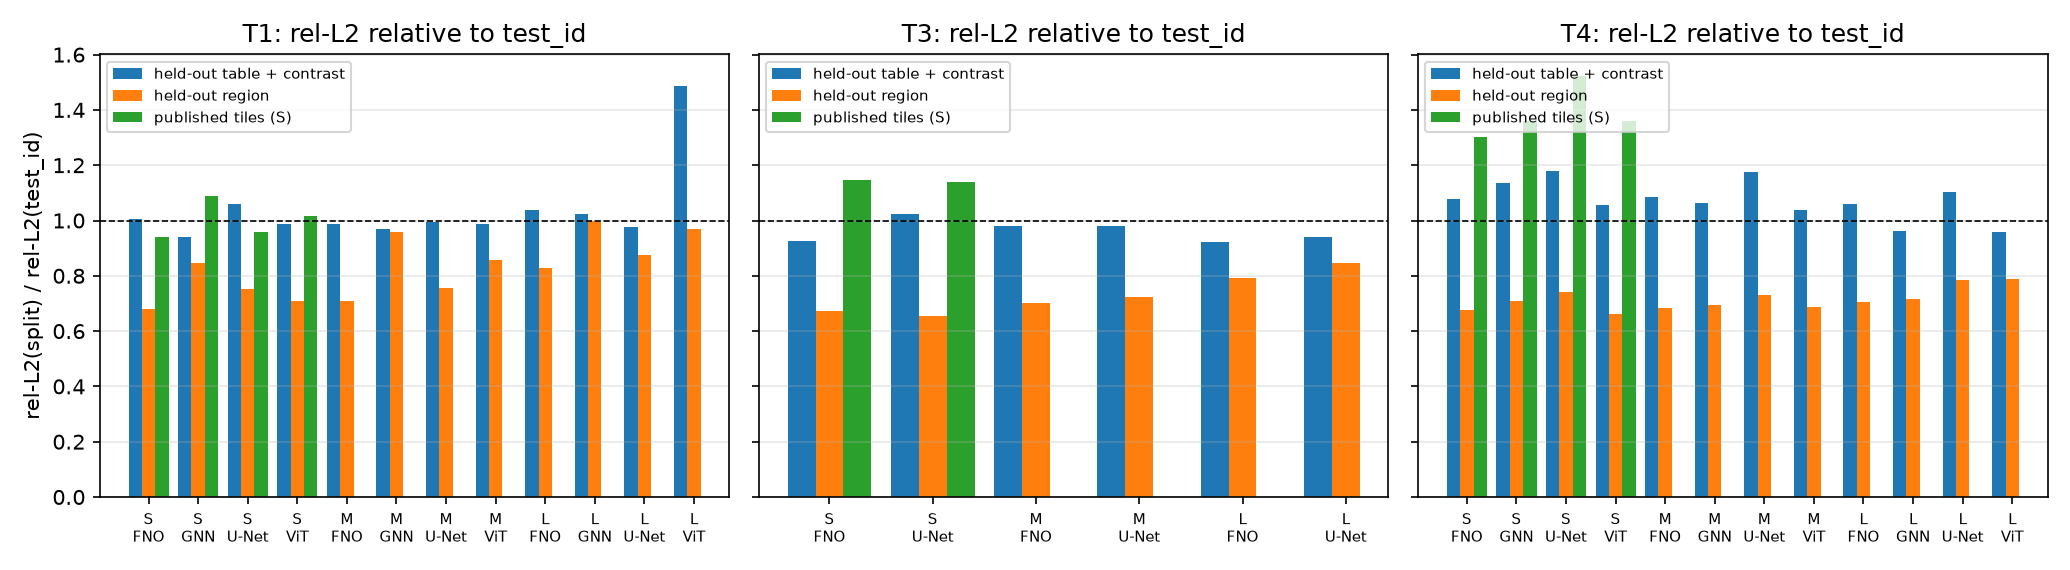
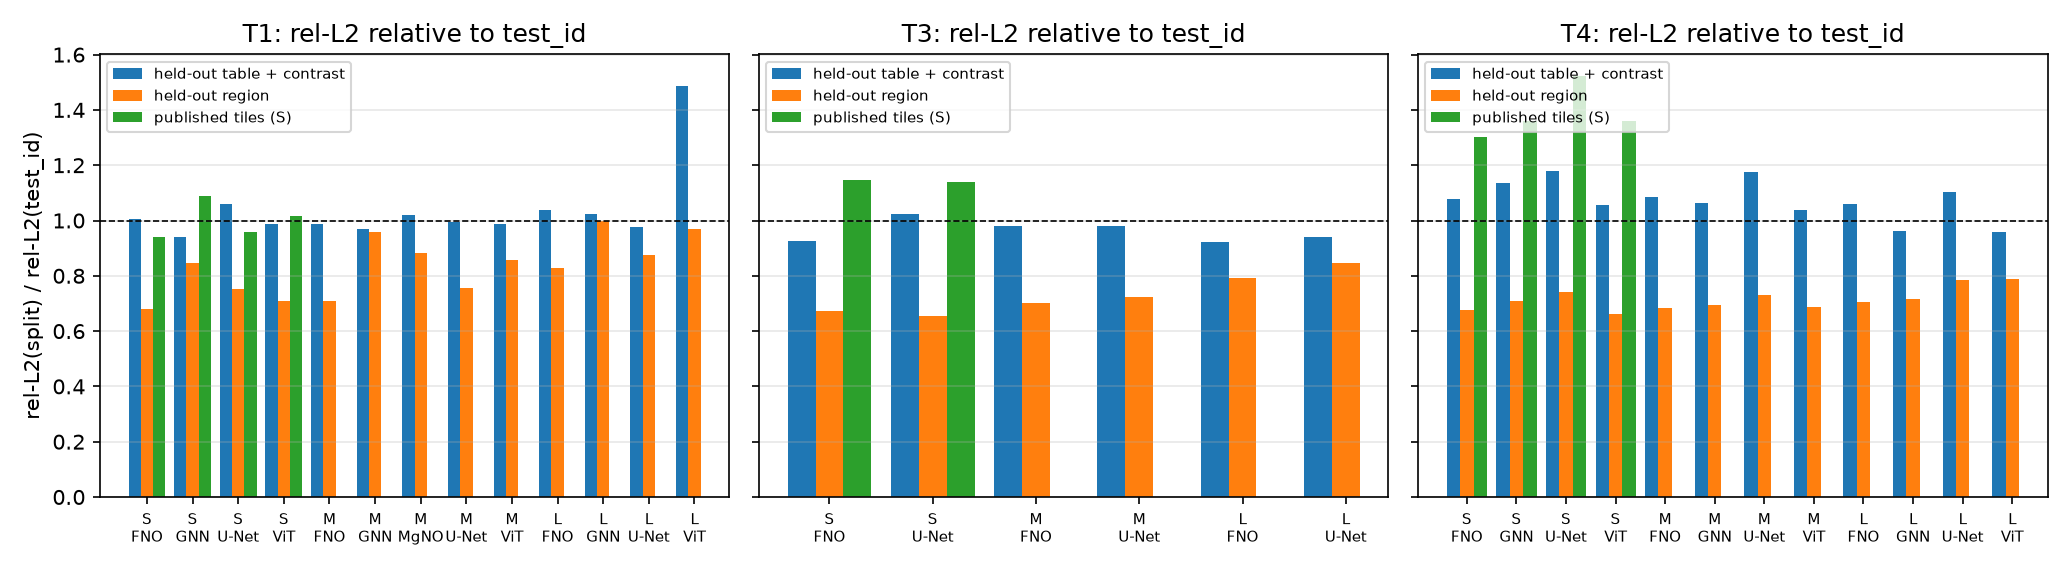
Tables: scale-transfer panel keeps the scale-aware variants; leaderboard seeder groups tier-tuned (_t2) runs per seed

Changed region(s): [[0.0618, 0.3579, 0.3401, 0.9544]]

diff --git a/scripts/submit_results.py b/scripts/submit_results.py
@@ -809,6 +809,12 @@ def seed_baselines(
         if not d.is_dir():
             continue
         p = parse_run_name(d.name)
+        tuned = False
+        if p is None and d.name.endswith(
+            "_t2"
+        ):  # tier-tuned official configuration (item 2, 2026-10-05)
+            p = parse_run_name(d.name[:-3])
+            tuned = p is not None
         if p is None:
             if re.match(r"^[a-z0-9]+_T\d[A-Z]?_(S|M|L|XL|XXL)_s\d+_", d.name):
                 warnings.append(f"skipped variant run {d.name}")
@@ -816,10 +822,14 @@ def seed_baselines(
         if not (d / "results.json").exists():
             warnings.append(f"skipped {d.name}: no results.json")
             continue
-        groups.setdefault((p["model"], p["task"], p["tier"]), []).append((p["seed"], d))
+        groups.setdefault((p["model"], p["task"], p["tier"]), []).append((p["seed"], d, tuned))
     entries: list[dict] = []
-    for (model, task, tier), seed_runs in sorted(groups.items()):
-        seed_runs.sort()
+    for (model, task, tier), seed_runs3 in sorted(groups.items()):
+        # one run per seed: the tier-tuned run replaces the pre-tuning one when both exist
+        by_seed: dict[int, tuple[int, pathlib.Path]] = {}
+        for sd, d, _tuned in sorted(seed_runs3, key=lambda x: (x[0], x[2])):
+            by_seed[sd] = (sd, d)
+        seed_runs = sorted(by_seed.values())
         name = MODEL_NAMES.get(model, model)
         results = [(s, d, json.loads((d / "results.json").read_text())) for s, d in seed_runs]
         cfgs = [r["config"] for _, _, r in results]

diff --git a/scripts/paper_figures.py b/scripts/paper_figures.py
@@ -234,17 +234,10 @@ def scale_transfer(out: pathlib.Path) -> None:
         base, task, tier, seed, suffix = split_run_name(run.name)
         if seed is None:
             continue
-        tuned = "_t2" in run.name
-        if (
-            not tuned
-            and (
-                run.parent
-                / (run.name.replace(f"_s{seed}", f"_s{seed}_t2") if suffix == "" else run.name)
-            )
-            .joinpath("results_transfer.json")
-            .exists()
-        ):
-            continue  # a tier-tuned counterpart exists: it is the official L model
+        if suffix == "" and "_t2" not in run.name:
+            t2 = run.parent / f"{base}_{task}_{tier}_s{seed}_t2"
+            if (t2 / "results_transfer.json").exists():
+                continue  # a tier-tuned counterpart exists: it is the official L model
         ev = json.loads(pathlib.Path(p).read_text())["eval"]
         for tag, v in ev.items():
             m = re.match(r"^[^_]+_(XL|XXL)_(test_id|test_ood|ood_region)$", tag)

diff --git a/docs/tables/baselines_full.md b/docs/tables/baselines_full.md
@@ -102,39 +102,60 @@
 | T1 | S | published S | vit_T1_S_s2 | 45 | 0.105 | 0.238 | 0.574 | 0.673 | 0.951 | 0.769 | 0.925 | 305.282 | 3.025 | 30 | 0.800 |
 | T1 | S | published S | vit_T1_S_s3 | 45 | 0.075 | 0.184 | 0.668 | 0.782 | 0.973 | 0.838 | 0.953 | 393.377 | 3.025 | 30 | 0.795 |
 | T1 | M | test_id | fno_T1_M_s1 | 4823 | 0.123 | 0.266 | 0.699 | 0.700 | 0.959 | 0.846 | 0.953 | 738.895 | 33.563 | 30 | 1.627 |
+| T1 | M | test_id | fno_T1_M_s1_tune_m96 | 4823 | 0.122 | 0.240 | 0.698 | 0.721 | 0.960 | 0.846 | 0.956 | 468.011 | 75.506 | 30 | 2.319 |
+| T1 | M | test_id | fno_T1_M_s1_tune_w48 | 4823 | 0.115 | 0.210 | 0.722 | 0.724 | 0.964 | 0.860 | 0.957 | 277.475 | 75.517 | 30 | 3.016 |
 | T1 | M | test_id | fno_T1_M_s2 | 4823 | 0.121 | 0.235 | 0.704 | 0.707 | 0.960 | 0.849 | 0.954 | 571.632 | 33.563 | 30 | 1.637 |
 | T1 | M | test_id | fno_T1_M_s3 | 4823 | 0.122 | 0.244 | 0.699 | 0.706 | 0.959 | 0.847 | 0.951 | 569.028 | 33.563 | 30 | 1.323 |
 | T1 | M | test_id | gnn_T1_M_s1 | 4823 | 0.336 | 0.844 | 0.500 | 0.541 | 0.860 | 0.694 | 0.892 | 52.043 | 0.245 | 30 | 9.203 |
 | T1 | M | test_id | gnn_T1_M_s2 | 4823 | 0.339 | 0.853 | 0.500 | 0.544 | 0.860 | 0.694 | 0.890 | 51.927 | 0.245 | 30 | 9.199 |
 | T1 | M | test_id | gnn_T1_M_s3 | 4823 | 0.337 | 0.851 | 0.500 | 0.536 | 0.860 | 0.694 | 0.891 | 52.559 | 0.245 | 30 | 9.204 |
+| T1 | M | test_id | mgno_T1_M_s1 | 4823 | 0.147 | 0.412 | 0.628 | 0.695 | 0.952 | 0.804 | 0.947 | 457.081 | 0.579 | 30 | 1.290 |
 | T1 | M | test_id | unet_T1_M_s1 | 4823 | 0.119 | 0.238 | 0.661 | 0.640 | 0.953 | 0.821 | 0.951 | 839.527 | 7.766 | 30 | 1.199 |
+| T1 | M | test_id | unet_T1_M_s1_tune_w64 | 4823 | 0.084 | 0.201 | 0.773 | 0.835 | 0.976 | 0.886 | 0.978 | 320.564 | 31.044 | 30 | 2.062 |
+| T1 | M | test_id | unet_T1_M_s1_tune_wide | 4823 | 0.094 | 0.204 | 0.740 | 0.759 | 0.969 | 0.867 | 0.969 | 471.488 | 17.466 | 30 | 1.442 |
 | T1 | M | test_id | unet_T1_M_s2 | 4823 | 0.094 | 0.198 | 0.728 | 0.753 | 0.969 | 0.863 | 0.968 | 645.288 | 7.766 | 30 | 1.403 |
 | T1 | M | test_id | unet_T1_M_s3 | 4823 | 0.096 | 0.199 | 0.735 | 0.772 | 0.969 | 0.866 | 0.968 | 833.616 | 7.766 | 30 | 1.358 |
 | T1 | M | test_id | vit_T1_M_s1 | 4823 | 0.342 | 0.533 | 0.168 | 0.608 | 0.659 | 0.362 | 0.914 | 466.147 | 3.025 | 30 | 1.538 |
+| T1 | M | test_id | vit_T1_M_s1_tune_p16g16 | 4823 | 0.138 | 0.312 | 0.518 | 0.677 | 0.939 | 0.756 | 0.937 | 1106.274 | 3.000 | 30 | 1.068 |
+| T1 | M | test_id | vit_T1_M_s1_tune_p8g32 | 4823 | 0.279 | 0.423 | 0.257 | 0.630 | 0.788 | 0.489 | 0.914 | 622.416 | 3.043 | 30 | 1.528 |
 | T1 | M | test_id | vit_T1_M_s2 | 4823 | 0.232 | 0.435 | 0.275 | 0.690 | 0.853 | 0.541 | 0.922 | 456.900 | 3.025 | 30 | 1.538 |
 | T1 | M | test_id | vit_T1_M_s3 | 4823 | 0.145 | 0.289 | 0.492 | 0.663 | 0.933 | 0.739 | 0.948 | 466.258 | 3.025 | 30 | 1.523 |
 | T1 | M | test_ood | fno_T1_M_s1 | 3225 | 0.108 | 0.263 | 0.714 | 0.671 | 0.966 | 0.853 | 0.944 | 757.093 | 33.563 | 30 | 1.627 |
+| T1 | M | test_ood | fno_T1_M_s1_tune_m96 | 3225 | 0.108 | 0.235 | 0.714 | 0.710 | 0.967 | 0.853 | 0.949 | 484.953 | 75.506 | 30 | 2.319 |
+| T1 | M | test_ood | fno_T1_M_s1_tune_w48 | 3225 | 0.103 | 0.205 | 0.736 | 0.706 | 0.970 | 0.866 | 0.949 | 286.748 | 75.517 | 30 | 3.016 |
 | T1 | M | test_ood | fno_T1_M_s2 | 3225 | 0.107 | 0.235 | 0.716 | 0.685 | 0.966 | 0.854 | 0.945 | 591.970 | 33.563 | 30 | 1.637 |
 | T1 | M | test_ood | fno_T1_M_s3 | 3225 | 0.107 | 0.238 | 0.714 | 0.685 | 0.966 | 0.854 | 0.942 | 590.294 | 33.563 | 30 | 1.323 |
 | T1 | M | test_ood | gnn_T1_M_s1 | 3225 | 0.317 | 0.820 | 0.490 | 0.494 | 0.866 | 0.683 | 0.884 | 52.305 | 0.245 | 30 | 9.203 |
 | T1 | M | test_ood | gnn_T1_M_s2 | 3225 | 0.319 | 0.826 | 0.492 | 0.497 | 0.865 | 0.683 | 0.882 | 52.205 | 0.245 | 30 | 9.199 |
 | T1 | M | test_ood | gnn_T1_M_s3 | 3225 | 0.317 | 0.824 | 0.494 | 0.495 | 0.866 | 0.684 | 0.883 | 52.764 | 0.245 | 30 | 9.204 |
+| T1 | M | test_ood | mgno_T1_M_s1 | 3225 | 0.133 | 0.420 | 0.640 | 0.635 | 0.956 | 0.807 | 0.938 | 488.747 | 0.579 | 30 | 1.290 |
 | T1 | M | test_ood | unet_T1_M_s1 | 3225 | 0.110 | 0.230 | 0.668 | 0.604 | 0.955 | 0.823 | 0.940 | 857.060 | 7.766 | 30 | 1.199 |
+| T1 | M | test_ood | unet_T1_M_s1_tune_w64 | 3225 | 0.074 | 0.200 | 0.790 | 0.843 | 0.979 | 0.893 | 0.975 | 331.977 | 31.044 | 30 | 2.062 |
+| T1 | M | test_ood | unet_T1_M_s1_tune_wide | 3225 | 0.086 | 0.204 | 0.749 | 0.747 | 0.972 | 0.870 | 0.962 | 486.651 | 17.466 | 30 | 1.442 |
 | T1 | M | test_ood | unet_T1_M_s2 | 3225 | 0.087 | 0.203 | 0.740 | 0.748 | 0.972 | 0.866 | 0.961 | 665.840 | 7.766 | 30 | 1.403 |
 | T1 | M | test_ood | unet_T1_M_s3 | 3225 | 0.087 | 0.198 | 0.745 | 0.771 | 0.972 | 0.870 | 0.962 | 861.859 | 7.766 | 30 | 1.358 |
 | T1 | M | test_ood | vit_T1_M_s1 | 3225 | 0.306 | 0.540 | 0.156 | 0.612 | 0.632 | 0.324 | 0.905 | 482.401 | 3.025 | 30 | 1.538 |
+| T1 | M | test_ood | vit_T1_M_s1_tune_p16g16 | 3225 | 0.124 | 0.302 | 0.528 | 0.666 | 0.946 | 0.762 | 0.927 | 1129.806 | 3.000 | 30 | 1.068 |
+| T1 | M | test_ood | vit_T1_M_s1_tune_p8g32 | 3225 | 0.249 | 0.413 | 0.238 | 0.608 | 0.780 | 0.452 | 0.905 | 643.840 | 3.043 | 30 | 1.528 |
 | T1 | M | test_ood | vit_T1_M_s2 | 3225 | 0.201 | 0.422 | 0.265 | 0.680 | 0.858 | 0.519 | 0.914 | 482.909 | 3.025 | 30 | 1.538 |
 | T1 | M | test_ood | vit_T1_M_s3 | 3225 | 0.126 | 0.278 | 0.496 | 0.660 | 0.943 | 0.743 | 0.938 | 482.031 | 3.025 | 30 | 1.523 |
 | T1 | M | ood_region | fno_T1_M_s1 | 4805 | 0.055 | 0.187 | 0.785 | 0.725 | 0.984 | 0.895 | 0.976 | 748.966 | 33.563 | 30 | 1.627 |
+| T1 | M | ood_region | fno_T1_M_s1_tune_m96 | 4805 | 0.055 | 0.168 | 0.782 | 0.749 | 0.984 | 0.893 | 0.978 | 476.890 | 75.506 | 30 | 2.319 |
+| T1 | M | ood_region | fno_T1_M_s1_tune_w48 | 4805 | 0.051 | 0.140 | 0.804 | 0.747 | 0.986 | 0.905 | 0.979 | 282.490 | 75.517 | 30 | 3.016 |
 | T1 | M | ood_region | fno_T1_M_s2 | 4805 | 0.055 | 0.165 | 0.787 | 0.732 | 0.984 | 0.896 | 0.976 | 581.059 | 33.563 | 30 | 1.637 |
 | T1 | M | ood_region | fno_T1_M_s3 | 4805 | 0.054 | 0.175 | 0.785 | 0.732 | 0.984 | 0.895 | 0.975 | 581.090 | 33.563 | 30 | 1.323 |
 | T1 | M | ood_region | gnn_T1_M_s1 | 4805 | 0.268 | 0.805 | 0.550 | 0.592 | 0.888 | 0.725 | 0.914 | 51.358 | 0.245 | 30 | 9.203 |
 | T1 | M | ood_region | gnn_T1_M_s2 | 4805 | 0.270 | 0.824 | 0.551 | 0.592 | 0.889 | 0.726 | 0.912 | 51.178 | 0.245 | 30 | 9.199 |
 | T1 | M | ood_region | gnn_T1_M_s3 | 4805 | 0.268 | 0.814 | 0.551 | 0.588 | 0.889 | 0.726 | 0.913 | 51.773 | 0.245 | 30 | 9.204 |
+| T1 | M | ood_region | mgno_T1_M_s1 | 4805 | 0.087 | 0.364 | 0.693 | 0.701 | 0.970 | 0.841 | 0.962 | 487.410 | 0.579 | 30 | 1.290 |
 | T1 | M | ood_region | unet_T1_M_s1 | 4805 | 0.069 | 0.176 | 0.738 | 0.661 | 0.970 | 0.862 | 0.966 | 837.191 | 7.766 | 30 | 1.199 |
+| T1 | M | ood_region | unet_T1_M_s1_tune_w64 | 4805 | 0.048 | 0.167 | 0.833 | 0.869 | 0.986 | 0.915 | 0.988 | 327.255 | 31.044 | 30 | 2.062 |
+| T1 | M | ood_region | unet_T1_M_s1_tune_wide | 4805 | 0.055 | 0.157 | 0.803 | 0.784 | 0.981 | 0.899 | 0.980 | 479.236 | 17.466 | 30 | 1.442 |
 | T1 | M | ood_region | unet_T1_M_s2 | 4805 | 0.055 | 0.151 | 0.795 | 0.780 | 0.981 | 0.896 | 0.980 | 654.427 | 7.766 | 30 | 1.403 |
 | T1 | M | ood_region | unet_T1_M_s3 | 4805 | 0.056 | 0.153 | 0.796 | 0.800 | 0.981 | 0.896 | 0.980 | 848.504 | 7.766 | 30 | 1.358 |
 | T1 | M | ood_region | vit_T1_M_s1 | 4805 | 0.259 | 0.483 | 0.143 | 0.617 | 0.622 | 0.301 | 0.936 | 477.128 | 3.025 | 30 | 1.538 |
+| T1 | M | ood_region | vit_T1_M_s1_tune_p16g16 | 4805 | 0.071 | 0.246 | 0.583 | 0.708 | 0.969 | 0.809 | 0.958 | 1135.335 | 3.000 | 30 | 1.068 |
+| T1 | M | ood_region | vit_T1_M_s1_tune_p8g32 | 4805 | 0.192 | 0.363 | 0.248 | 0.653 | 0.800 | 0.466 | 0.937 | 634.736 | 3.043 | 30 | 1.528 |
 | T1 | M | ood_region | vit_T1_M_s2 | 4805 | 0.147 | 0.376 | 0.268 | 0.725 | 0.880 | 0.532 | 0.944 | 475.790 | 3.025 | 30 | 1.538 |
 | T1 | M | ood_region | vit_T1_M_s3 | 4805 | 0.075 | 0.220 | 0.550 | 0.692 | 0.965 | 0.788 | 0.966 | 475.076 | 3.025 | 30 | 1.523 |
 | T1 | L | test_id | fno_T1_L_s1 | 1928 | 0.147 | 0.364 | 0.643 | 0.508 | 0.945 | 0.812 | 0.934 | 506.188 | 33.563 | 30 | 2.696 |
@@ -269,49 +290,69 @@
 | T1 | XXL | ood_region | unet_T1_L_s1_scalenorm → XXL | 100 | 2.158 | 1.001 | 0.235 | 0.183 | 0.607 | 0.406 | 0.545 | 260.440 | 7.766 | 30 | 1.491 |
 | T1 | XXL | ood_region | unet_T1_L_s2 → XXL | 100 | 2.419 | 0.969 | 0.241 | 0.191 | 0.243 | 0.373 | 0.483 | 261.002 | 7.766 | 30 | 1.486 |
 | T1 | XXL | ood_region | unet_T1_L_s3 → XXL | 100 | 2.428 | 19.584 | 0.250 | 0.129 | 0.364 | 0.397 | 0.521 | 261.136 | 7.766 | 30 | 1.502 |
+| T1V | M | test_id | fno_T1V_M_s1_voltage | 4823 | – | – | – | – | – | – | – | – | 33.563 | 30 | 1.673 |
+| T1V | M | test_id | unet_T1V_M_s1_voltage | 4823 | – | – | – | – | – | – | – | – | 7.766 | 30 | 1.278 |
+| T1V | M | test_ood | fno_T1V_M_s1_voltage | 3225 | – | – | – | – | – | – | – | – | 33.563 | 30 | 1.673 |
+| T1V | M | test_ood | unet_T1V_M_s1_voltage | 3225 | – | – | – | – | – | – | – | – | 7.766 | 30 | 1.278 |
+| T1V | M | ood_region | fno_T1V_M_s1_voltage | 4805 | – | – | – | – | – | – | – | – | 33.563 | 30 | 1.673 |
+| T1V | M | ood_region | unet_T1V_M_s1_voltage | 4805 | – | – | – | – | – | – | – | – | 7.766 | 30 | 1.278 |
 | T3 | S | test_id | coarsen4 (non-learned) | 351 | 0.134 | 0.295 | 0.622 | 0.348 | 0.927 | 0.796 | 0.814 | 2.224 | – | – | – |
 | T3 | S | test_id | fno_T3_S_s1 | 9850 | 0.145 | 0.254 | 0.639 | 0.704 | 0.932 | 0.806 | 0.923 | 221.474 | 33.563 | 26 | 0.872 |
+| T3 | S | test_id | fno_T3_S_s1_voltage | 9850 | – | – | – | – | – | – | – | 221.693 | 33.563 | 30 | 1.000 |
 | T3 | S | test_id | fno_T3_S_s2 | 9850 | 0.149 | 0.252 | 0.639 | 0.693 | 0.928 | 0.803 | 0.921 | 216.932 | 33.563 | 28 | 0.932 |
 | T3 | S | test_id | fno_T3_S_s3 | 9850 | 0.147 | 0.252 | 0.638 | 0.689 | 0.929 | 0.804 | 0.918 | 218.199 | 33.563 | 29 | 0.964 |
 | T3 | S | test_id | unet_T3_S_s1 | 9850 | 0.052 | 0.116 | 0.827 | 0.886 | 0.989 | 0.924 | 0.982 | 316.015 | 7.766 | 30 | 0.736 |
+| T3 | S | test_id | unet_T3_S_s1_voltage | 9850 | – | – | – | – | – | – | – | 320.601 | 7.766 | 30 | 0.706 |
 | T3 | S | test_id | unet_T3_S_s2 | 9850 | 0.052 | 0.110 | 0.826 | 0.895 | 0.989 | 0.924 | 0.981 | 321.297 | 7.766 | 30 | 0.725 |
 | T3 | S | test_id | unet_T3_S_s3 | 9850 | 0.051 | 0.107 | 0.826 | 0.889 | 0.989 | 0.923 | 0.981 | 320.938 | 7.766 | 30 | 0.694 |
 | T3 | S | test_ood | coarsen4 (non-learned) | 184 | 0.124 | 0.320 | 0.561 | 0.269 | 0.927 | 0.763 | 0.755 | 2.402 | – | – | – |
 | T3 | S | test_ood | fno_T3_S_s1 | 6460 | 0.132 | 0.234 | 0.635 | 0.689 | 0.943 | 0.815 | 0.924 | 215.399 | 33.563 | 26 | 0.872 |
+| T3 | S | test_ood | fno_T3_S_s1_voltage | 6460 | – | – | – | – | – | – | – | 223.044 | 33.563 | 30 | 1.000 |
 | T3 | S | test_ood | fno_T3_S_s2 | 6460 | 0.135 | 0.235 | 0.631 | 0.691 | 0.939 | 0.813 | 0.922 | 217.198 | 33.563 | 28 | 0.932 |
 | T3 | S | test_ood | fno_T3_S_s3 | 6460 | 0.134 | 0.234 | 0.630 | 0.668 | 0.940 | 0.812 | 0.918 | 221.164 | 33.563 | 29 | 0.964 |
 | T3 | S | test_ood | unet_T3_S_s1 | 6460 | 0.049 | 0.115 | 0.802 | 0.882 | 0.990 | 0.922 | 0.980 | 310.043 | 7.766 | 30 | 0.736 |
+| T3 | S | test_ood | unet_T3_S_s1_voltage | 6460 | – | – | – | – | – | – | – | 321.145 | 7.766 | 30 | 0.706 |
 | T3 | S | test_ood | unet_T3_S_s2 | 6460 | 0.049 | 0.112 | 0.810 | 0.899 | 0.989 | 0.922 | 0.980 | 314.640 | 7.766 | 30 | 0.725 |
 | T3 | S | test_ood | unet_T3_S_s3 | 6460 | 0.048 | 0.114 | 0.808 | 0.886 | 0.989 | 0.920 | 0.979 | 314.074 | 7.766 | 30 | 0.694 |
 | T3 | S | ood_region | coarsen4 (non-learned) | 300 | 0.081 | 0.246 | 0.678 | 0.381 | 0.958 | 0.841 | 0.855 | 2.296 | – | – | – |
 | T3 | S | ood_region | fno_T3_S_s1 | 9470 | 0.086 | 0.169 | 0.696 | 0.728 | 0.956 | 0.846 | 0.938 | 217.581 | 33.563 | 26 | 0.872 |
+| T3 | S | ood_region | fno_T3_S_s1_voltage | 9470 | – | – | – | – | – | – | – | 225.061 | 33.563 | 30 | 1.000 |
 | T3 | S | ood_region | fno_T3_S_s2 | 9470 | 0.089 | 0.171 | 0.696 | 0.726 | 0.952 | 0.845 | 0.935 | 219.610 | 33.563 | 28 | 0.932 |
 | T3 | S | ood_region | fno_T3_S_s3 | 9470 | 0.088 | 0.171 | 0.694 | 0.718 | 0.953 | 0.844 | 0.933 | 221.334 | 33.563 | 29 | 0.964 |
 | T3 | S | ood_region | unet_T3_S_s1 | 9470 | 0.027 | 0.073 | 0.848 | 0.915 | 0.995 | 0.936 | 0.987 | 310.943 | 7.766 | 30 | 0.736 |
+| T3 | S | ood_region | unet_T3_S_s1_voltage | 9470 | – | – | – | – | – | – | – | 322.141 | 7.766 | 30 | 0.706 |
 | T3 | S | ood_region | unet_T3_S_s2 | 9470 | 0.028 | 0.073 | 0.850 | 0.923 | 0.995 | 0.937 | 0.986 | 313.429 | 7.766 | 30 | 0.725 |
 | T3 | S | ood_region | unet_T3_S_s3 | 9470 | 0.027 | 0.072 | 0.845 | 0.919 | 0.995 | 0.933 | 0.985 | 321.806 | 7.766 | 30 | 0.694 |
 | T3 | S | published S | fno_T3_S_s1 | 45 | 0.131 | 0.285 | 0.620 | 0.678 | 0.930 | 0.794 | 0.915 | 157.499 | 33.563 | 26 | 0.872 |
+| T3 | S | published S | fno_T3_S_s1_voltage | 45 | – | – | – | – | – | – | – | 100.525 | 33.563 | 30 | 1.000 |
 | T3 | S | published S | fno_T3_S_s2 | 45 | 0.132 | 0.283 | 0.608 | 0.656 | 0.929 | 0.786 | 0.909 | 140.986 | 33.563 | 28 | 0.932 |
 | T3 | S | published S | fno_T3_S_s3 | 45 | 0.134 | 0.300 | 0.607 | 0.631 | 0.927 | 0.785 | 0.905 | 165.345 | 33.563 | 29 | 0.964 |
 | T3 | S | published S | unet_T3_S_s1 | 45 | 0.042 | 0.129 | 0.827 | 0.863 | 0.993 | 0.929 | 0.982 | 84.217 | 7.766 | 30 | 0.736 |
+| T3 | S | published S | unet_T3_S_s1_voltage | 45 | – | – | – | – | – | – | – | 163.077 | 7.766 | 30 | 0.706 |
 | T3 | S | published S | unet_T3_S_s2 | 45 | 0.042 | 0.128 | 0.828 | 0.897 | 0.992 | 0.930 | 0.982 | 15.501 | 7.766 | 30 | 0.725 |
 | T3 | S | published S | unet_T3_S_s3 | 45 | 0.041 | 0.122 | 0.836 | 0.890 | 0.993 | 0.926 | 0.982 | 6.790 | 7.766 | 30 | 0.694 |
 | T3 | M | test_id | fno_T3_M_s1 | 4823 | 0.159 | 0.277 | 0.620 | 0.641 | 0.921 | 0.791 | 0.940 | 247.297 | 33.563 | 30 | 1.358 |
+| T3 | M | test_id | fno_T3_M_s1_voltage | 4823 | – | – | – | – | – | – | – | 253.623 | 33.563 | 30 | 1.681 |
 | T3 | M | test_id | fno_T3_M_s2 | 4823 | 0.164 | 0.285 | 0.609 | 0.637 | 0.916 | 0.783 | 0.937 | 325.167 | 33.563 | 30 | 1.367 |
 | T3 | M | test_id | fno_T3_M_s3 | 4823 | 0.167 | 0.289 | 0.603 | 0.624 | 0.912 | 0.778 | 0.935 | 254.353 | 33.563 | 30 | 1.612 |
 | T3 | M | test_id | unet_T3_M_s1 | 4823 | 0.108 | 0.202 | 0.715 | 0.762 | 0.958 | 0.854 | 0.963 | 189.880 | 7.766 | 30 | 1.193 |
+| T3 | M | test_id | unet_T3_M_s1_voltage | 4823 | – | – | – | – | – | – | – | 365.239 | 7.766 | 30 | 0.993 |
 | T3 | M | test_id | unet_T3_M_s2 | 4823 | 0.107 | 0.207 | 0.710 | 0.770 | 0.959 | 0.853 | 0.963 | 284.650 | 7.766 | 30 | 1.080 |
 | T3 | M | test_id | unet_T3_M_s3 | 4823 | 0.104 | 0.196 | 0.721 | 0.767 | 0.961 | 0.860 | 0.965 | 194.409 | 7.766 | 30 | 1.274 |
 | T3 | M | test_ood | fno_T3_M_s1 | 3222 | 0.141 | 0.256 | 0.620 | 0.657 | 0.936 | 0.802 | 0.931 | 250.533 | 33.563 | 30 | 1.358 |
+| T3 | M | test_ood | fno_T3_M_s1_voltage | 3222 | – | – | – | – | – | – | – | 250.854 | 33.563 | 30 | 1.681 |
 | T3 | M | test_ood | fno_T3_M_s2 | 3222 | 0.145 | 0.262 | 0.613 | 0.648 | 0.931 | 0.797 | 0.930 | 322.060 | 33.563 | 30 | 1.367 |
 | T3 | M | test_ood | fno_T3_M_s3 | 3222 | 0.150 | 0.317 | 0.601 | 0.628 | 0.927 | 0.789 | 0.925 | 250.980 | 33.563 | 30 | 1.612 |
 | T3 | M | test_ood | unet_T3_M_s1 | 3222 | 0.097 | 0.201 | 0.711 | 0.780 | 0.965 | 0.863 | 0.956 | 186.258 | 7.766 | 30 | 1.193 |
+| T3 | M | test_ood | unet_T3_M_s1_voltage | 3222 | – | – | – | – | – | – | – | 361.249 | 7.766 | 30 | 0.993 |
 | T3 | M | test_ood | unet_T3_M_s2 | 3222 | 0.096 | 0.204 | 0.700 | 0.800 | 0.966 | 0.858 | 0.956 | 279.730 | 7.766 | 30 | 1.080 |
 | T3 | M | test_ood | unet_T3_M_s3 | 3222 | 0.092 | 0.188 | 0.713 | 0.782 | 0.968 | 0.866 | 0.959 | 191.315 | 7.766 | 30 | 1.274 |
 | T3 | M | ood_region | fno_T3_M_s1 | 4805 | 0.096 | 0.191 | 0.679 | 0.667 | 0.950 | 0.835 | 0.959 | 252.527 | 33.563 | 30 | 1.358 |
+| T3 | M | ood_region | fno_T3_M_s1_voltage | 4805 | – | – | – | – | – | – | – | 250.848 | 33.563 | 30 | 1.681 |
 | T3 | M | ood_region | fno_T3_M_s2 | 4805 | 0.101 | 0.198 | 0.668 | 0.660 | 0.944 | 0.827 | 0.957 | 321.429 | 33.563 | 30 | 1.367 |
 | T3 | M | ood_region | fno_T3_M_s3 | 4805 | 0.105 | 0.207 | 0.659 | 0.650 | 0.940 | 0.821 | 0.954 | 251.349 | 33.563 | 30 | 1.612 |
 | T3 | M | ood_region | unet_T3_M_s1 | 4805 | 0.070 | 0.147 | 0.754 | 0.796 | 0.971 | 0.880 | 0.972 | 187.181 | 7.766 | 30 | 1.193 |
+| T3 | M | ood_region | unet_T3_M_s1_voltage | 4805 | – | – | – | – | – | – | – | 362.103 | 7.766 | 30 | 0.993 |
 | T3 | M | ood_region | unet_T3_M_s2 | 4805 | 0.068 | 0.148 | 0.751 | 0.816 | 0.972 | 0.880 | 0.972 | 280.862 | 7.766 | 30 | 1.080 |
 | T3 | M | ood_region | unet_T3_M_s3 | 4805 | 0.066 | 0.142 | 0.760 | 0.802 | 0.974 | 0.885 | 0.974 | 192.229 | 7.766 | 30 | 1.274 |
 | T3 | L | test_id | fno_T3_L_s1 | 1928 | 0.191 | 0.344 | 0.543 | 0.496 | 0.892 | 0.736 | 0.924 | 248.589 | 33.563 | 29 | 2.705 |

diff --git a/paper/tables/t4_pareto_L.md b/paper/tables/t4_pareto_L.md
@@ -12,14 +12,6 @@
 | test_id | block 5 (correct_artifacts=0) | 24 | 638 | 0.1011 | 0.1141 | 0.0217 | 0.7710 | 0.9767 | 0.9870 |
 | test_id | production block 5 (correct_artifacts=1) | 24 | 566 | 0.0315 | 0.0359 | 0.0135 | 0.9344 | 0.9319 | 0.9979 |
 | test_id | block 11 (correct_artifacts=1) | 24 | 164 | 0.0854 | 0.0954 | 0.0409 | 0.8317 | 0.8183 | 0.9895 |
-| test_id | gnn_T4_L_s1_scalenorm (learned, 1 seed) | 1927 | 0.0665 | 0.1407 | – | 0.0733 | 0.6306 | 0.7139 | 0.9609 |
-| test_id | gnn_T4_L (learned, 3 seeds) | 1927 | 0.0658 | 0.1416 | – | 0.0738 | 0.6321 | 0.7041 | 0.9604 |
-| test_id | vit_T4_L (learned, 3 seeds) | 1927 | 0.0141 | 0.1586 | – | 0.0973 | 0.6046 | 0.7348 | 0.9529 |
-| test_id | vit_T4_L_s1_scalenorm (learned, 1 seed) | 1927 | 0.0125 | 0.1614 | – | 0.0983 | 0.6017 | 0.7361 | 0.9513 |
-| test_id | fno_T4_L_s1_scalenorm (learned, 1 seed) | 1927 | 0.00744 | 0.1199 | – | 0.0735 | 0.7145 | 0.5492 | 0.9734 |
-| test_id | unet_T4_L (learned, 3 seeds) | 1927 | 0.00652 | 0.0810 | – | 0.0377 | 0.8122 | 0.8254 | 0.9916 |
-| test_id | fno_T4_L (learned, 3 seeds) | 1927 | 0.00541 | 0.1198 | – | 0.0729 | 0.7132 | 0.5531 | 0.9735 |
-| test_id | unet_T4_L_s1_scalenorm (learned, 1 seed) | 1927 | 0.00538 | 0.0804 | – | 0.0385 | 0.8070 | 0.8262 | 0.9913 |
 | test_ood | block 1 (exact, reference) | 16 | 1.4e+04 | 0.0000 | 0.0000 | 0.0000 | 1.0000 | 1.0000 | 1.0000 |
 | test_ood | block 3 (correct_artifacts=1) | 16 | 2.02e+03 | 0.0175 | 0.0267 | 0.0065 | 0.9388 | 0.9503 | 0.9978 |
 | test_ood | block 5 (correct_artifacts=0) | 16 | 764 | 0.1004 | 0.1480 | 0.0405 | 0.7137 | 0.9802 | 0.9783 |

diff --git a/paper/tables/t4_pareto_M.md b/paper/tables/t4_pareto_M.md
@@ -12,10 +12,6 @@
 | test_id | production block 3 (correct_artifacts=1) | 400 | 111 | 0.0291 | 0.0371 | 0.0119 | 0.9357 | 0.9312 | 0.9983 |
 | test_id | block 7 (correct_artifacts=1) | 400 | 25.5 | 0.0983 | 0.1064 | 0.0526 | 0.8081 | 0.8081 | 0.9845 |
 | test_id | block 7 (correct_artifacts=0) | 400 | 25.4 | 0.2918 | 0.3771 | 0.0679 | 0.5468 | 0.9662 | 0.9664 |
-| test_id | gnn_T4_M (learned, 3 seeds) | 4823 | 0.0163 | 0.0989 | – | 0.0536 | 0.6983 | 0.7746 | 0.9720 |
-| test_id | vit_T4_M (learned, 3 seeds) | 4823 | 0.00205 | 0.0942 | – | 0.0561 | 0.7199 | 0.8193 | 0.9789 |
-| test_id | fno_T4_M (learned, 3 seeds) | 4823 | 0.00147 | 0.0787 | – | 0.0524 | 0.7784 | 0.7537 | 0.9847 |
-| test_id | unet_T4_M (learned, 3 seeds) | 4823 | 0.00109 | 0.0513 | – | 0.0251 | 0.8569 | 0.8993 | 0.9951 |
 | test_ood | block 1 (exact, reference) | 300 | 860 | 0.0000 | 0.0000 | 0.0000 | 1.0000 | 1.0000 | 1.0000 |
 | test_ood | production block 3 (correct_artifacts=1) | 300 | 133 | 0.0316 | 0.0517 | 0.0112 | 0.9154 | 0.9252 | 0.9954 |
 | test_ood | block 3 (correct_artifacts=0) | 300 | 132 | 0.1153 | 0.1520 | 0.0266 | 0.5998 | 0.7793 | 0.9626 |

diff --git a/paper/tables/baselines_sml.md b/paper/tables/baselines_sml.md
@@ -8,6 +8,7 @@
 | T1 | L | ViT | 3 | 0.648 ± 0.033 | 0.375 ± 0.003 | 0.146 ± 0.001 | 0.472 ± 0.009 | 0.665 ± 0.001 | 277 | 4.87 |
 | T1 | M | FNO | 3 | 0.248 ± 0.016 | 0.122 ± 0.001 | 0.701 ± 0.003 | 0.704 ± 0.004 | 0.959 ± 0.001 | 627 | 1.53 |
 | T1 | M | GNN | 3 | 0.849 ± 0.005 | 0.337 ± 0.002 | 0.500 ± 0.000 | 0.540 ± 0.004 | 0.860 ± 0.000 | 52 | 9.20 |
+| T1 | M | MgNO | 1 | 0.412 | 0.147 | 0.628 | 0.695 | 0.952 | 457 | 1.29 |
 | T1 | M | U-Net | 3 | 0.212 ± 0.023 | 0.103 ± 0.014 | 0.708 ± 0.041 | 0.722 ± 0.071 | 0.964 ± 0.009 | 773 | 1.32 |
 | T1 | M | ViT | 3 | 0.419 ± 0.123 | 0.240 ± 0.099 | 0.312 ± 0.165 | 0.654 ± 0.042 | 0.815 ± 0.141 | 463 | 1.53 |
 | T1 | S | FNO | 3 | 0.199 ± 0.002 | 0.111 ± 0.001 | 0.723 ± 0.004 | 0.814 ± 0.001 | 0.967 ± 0.000 | 503 | 0.96 |

diff --git a/paper/tables/ood_degradation.md b/paper/tables/ood_degradation.md
@@ -10,6 +10,7 @@ test_ood = held-out resistance table (forest_bird) + held-out contrast (10⁶); 
 | T1 | S | ViT | 0.218 | 0.215 | 0.155 | 0.221 | 0.986 | 0.711 | 1.015 |
 | T1 | M | FNO | 0.248 | 0.245 | 0.176 | – | 0.988 | 0.707 | – |
 | T1 | M | GNN | 0.849 | 0.823 | 0.814 | – | 0.969 | 0.959 | – |
+| T1 | M | MgNO | 0.412 | 0.420 | 0.364 | – | 1.019 | 0.883 | – |
 | T1 | M | U-Net | 0.212 | 0.210 | 0.160 | – | 0.994 | 0.756 | – |
 | T1 | M | ViT | 0.419 | 0.413 | 0.360 | – | 0.986 | 0.858 | – |
 | T1 | L | FNO | 0.361 | 0.375 | 0.298 | – | 1.039 | 0.826 | – |
